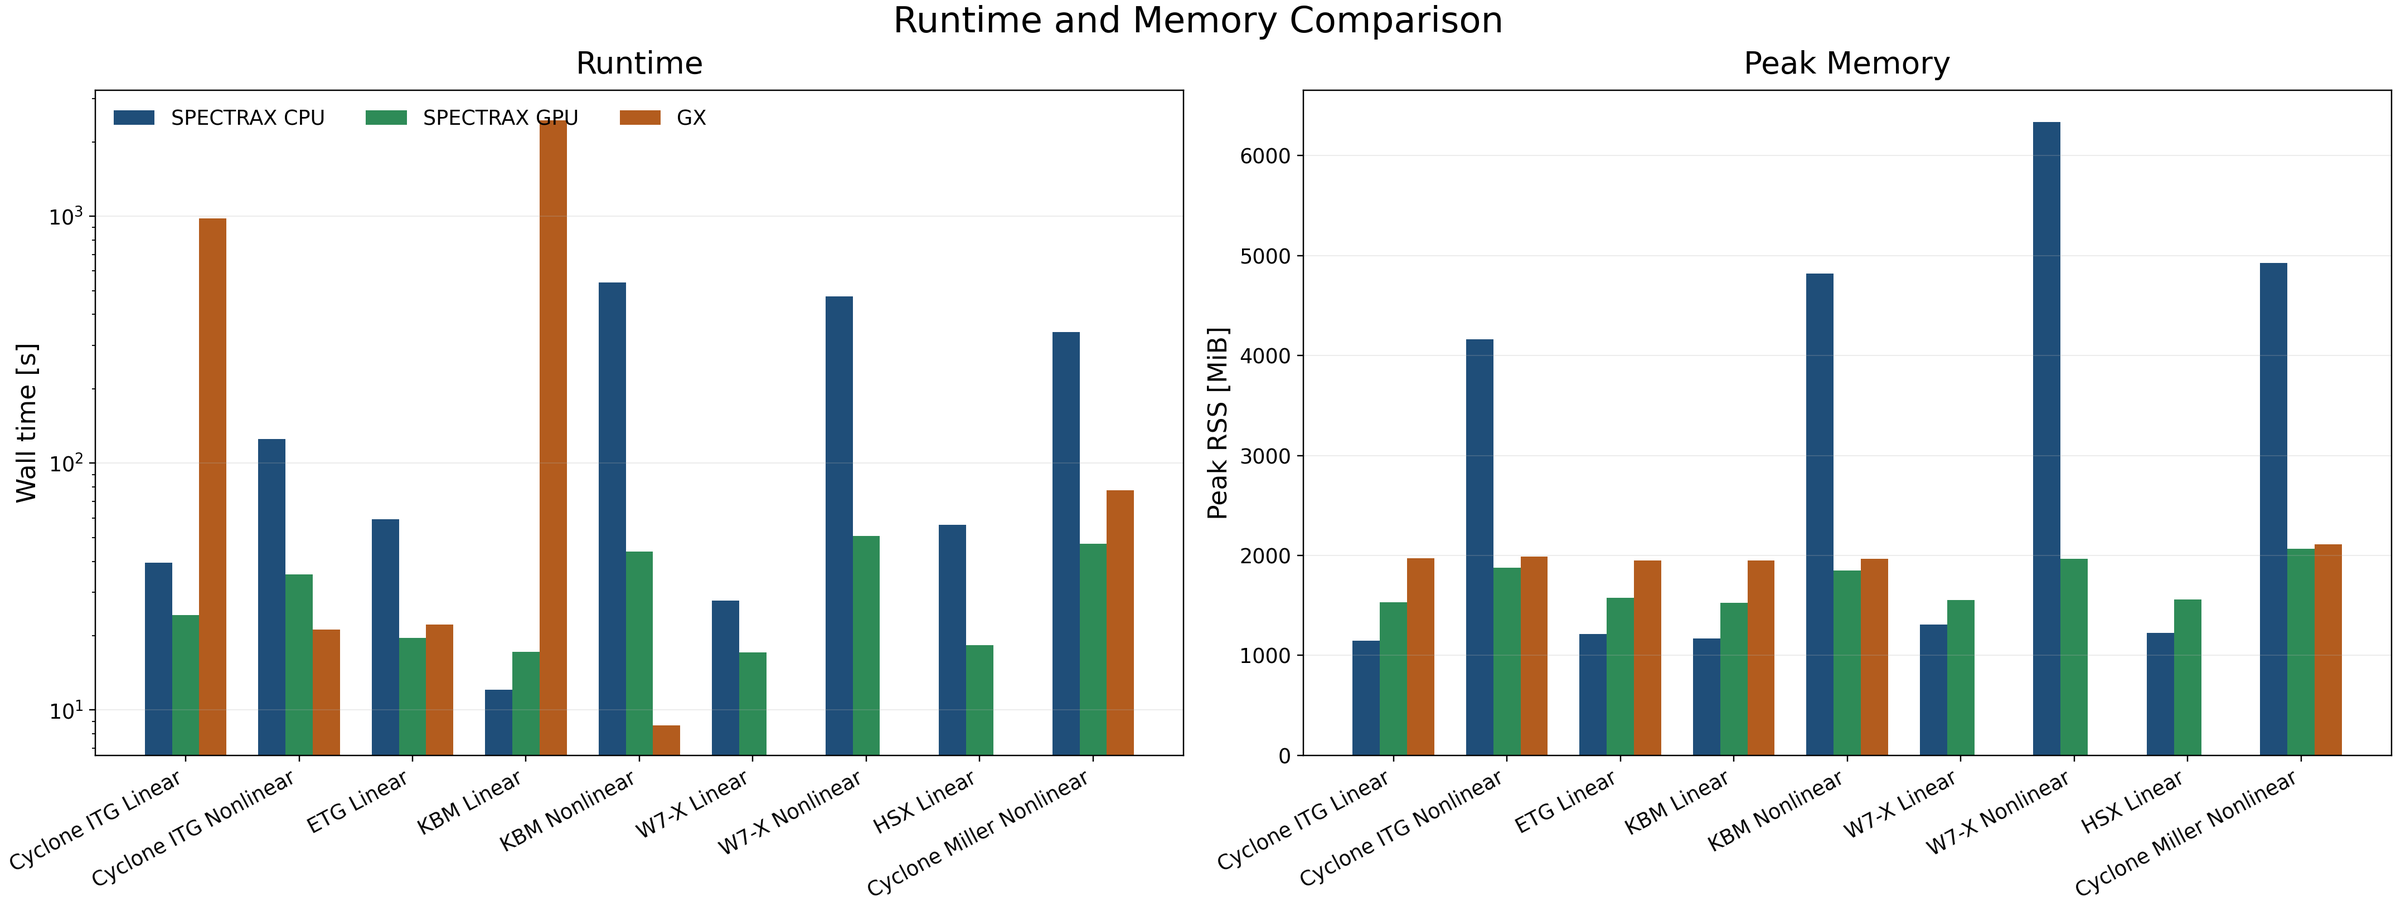
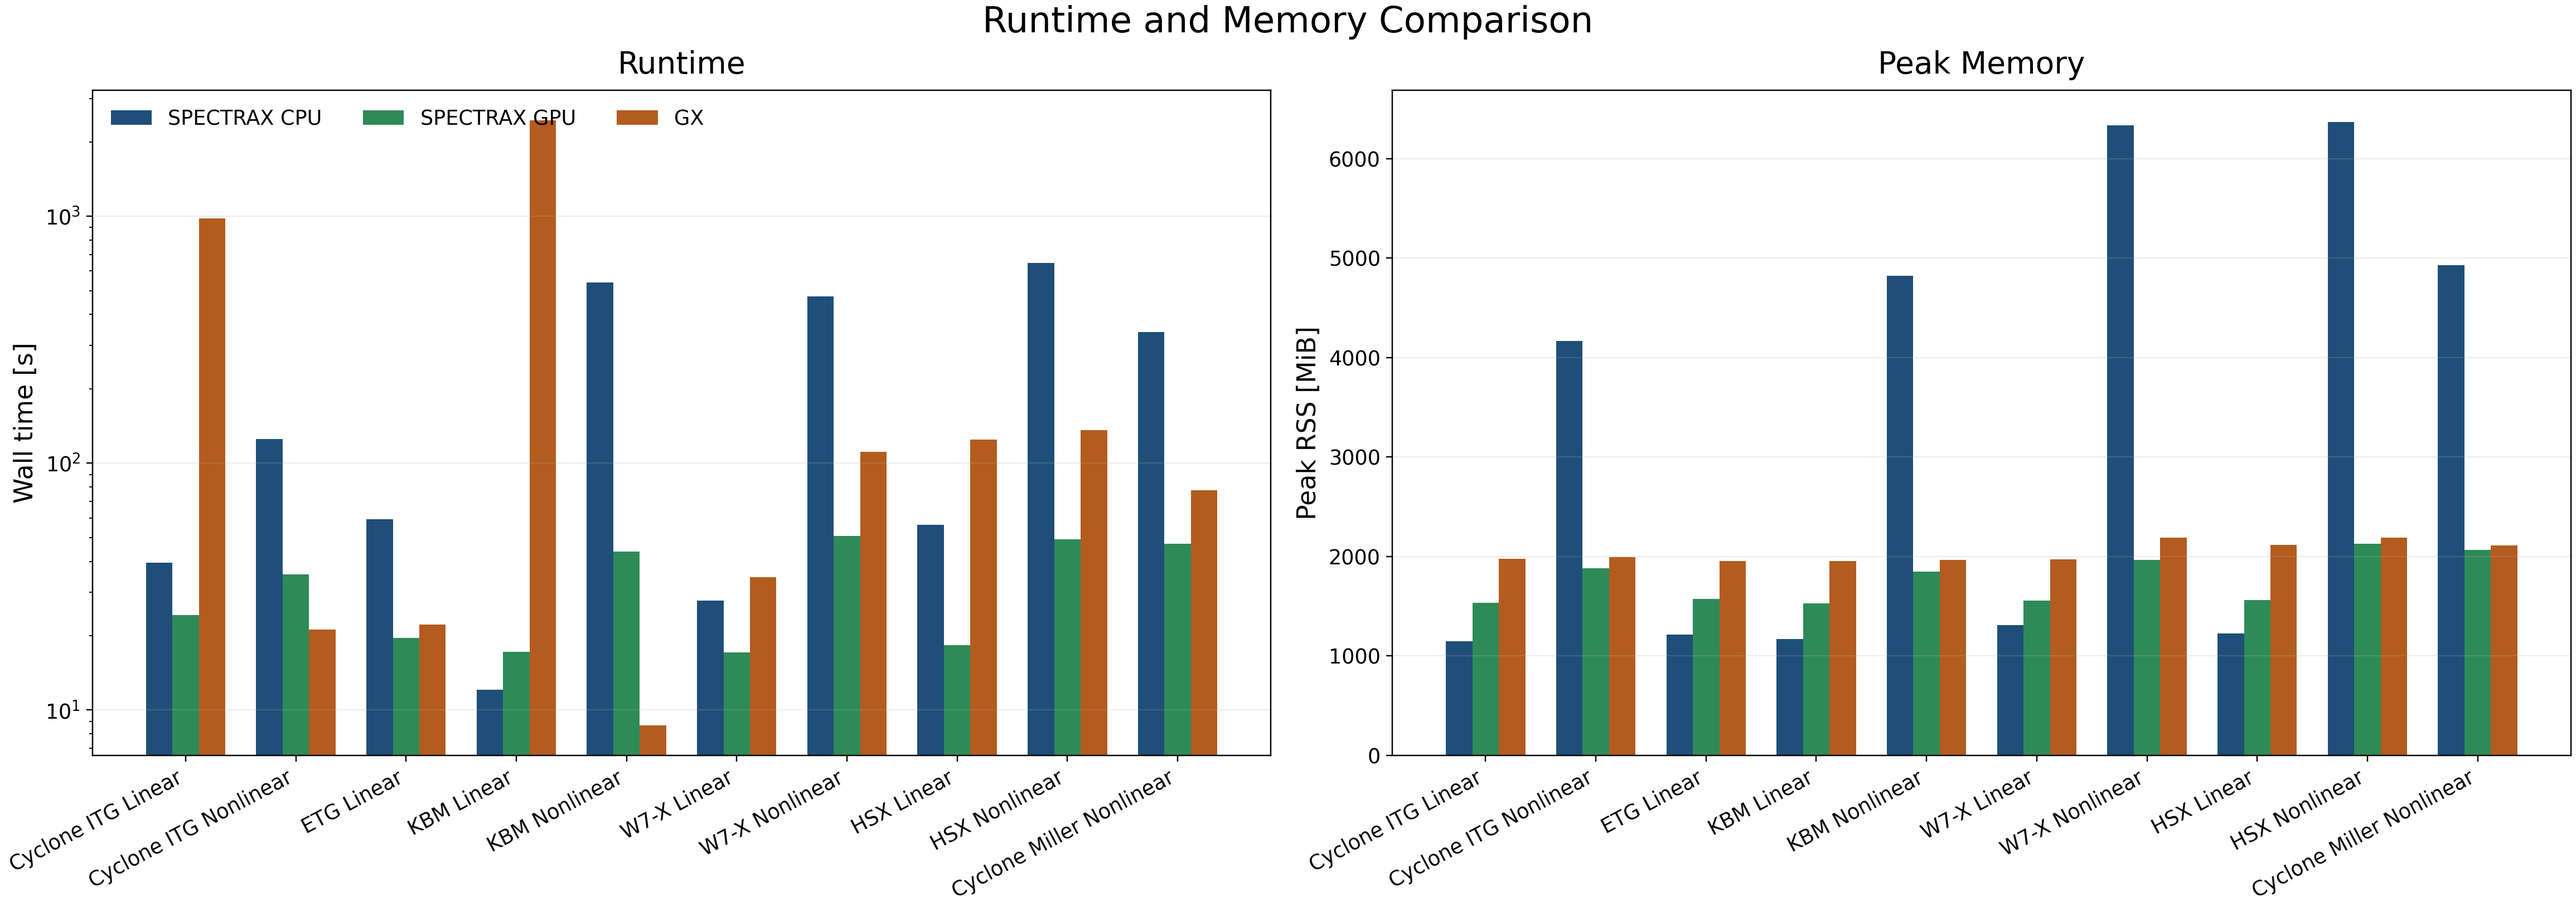
perf: fix office stellarator runtime panel

diff --git a/tests/test_benchmark_runtime_memory.py b/tests/test_benchmark_runtime_memory.py
@@ -84,6 +84,18 @@ def test_gx_runtime_memory_manifest_runs_in_isolated_tempdir() -> None:
         assert "CUDA_VISIBLE_DEVICES=${SPECTRAX_BENCH_CUDA_DEVICE}" in run.command
 
 
+def test_gx_stellarator_runtime_manifest_uses_pregenerated_nc_geometry() -> None:
+    runs = _load_manifest(ROOT / "tools" / "runtime_memory_manifest.toml")
+    stellarator = [run for run in runs if run.backend == "gx" and run.case in {"w7x-linear", "w7x-nonlinear", "hsx-linear", "hsx-nonlinear"}]
+    assert len(stellarator) == 4
+    for run in stellarator:
+        assert 'geo_option = "nc"' in run.command
+        assert 'vmec_file' in run.command
+        assert 'geo_file = "' in run.command
+        assert "REFERENCE_GK_NETCDF_LIBDIR" in run.command
+        assert "REFERENCE_GK_PYTHON_BIN" in run.command
+
+
 def test_gpu_runtime_memory_manifest_pins_configured_cuda_device() -> None:
     runs = _load_manifest(ROOT / "tools" / "runtime_memory_manifest.toml")
     gpu_runs = [run for run in runs if run.backend == "spectrax_gpu"]

diff --git a/plan.md b/plan.md
@@ -459,14 +459,14 @@ Current nonlinear-lane status at the handoff point:
   - add `HDF5_DISABLE_VERSION_CHECK=1` to the reference-code rows
   - retain the explicit shared-library path bundle for `cutensor`, `nccl`,
     `hdf5`, `netcdf`, and `gsl`
-- Full runtime/memory refresh is now a pure batch-duration problem, not a
-  broken-infrastructure problem:
-  - `cyclone-linear [spectrax_cpu]` completed in about `69.3 s`
-  - `cyclone-linear [spectrax_gpu]` completed in about `37.4 s`
-  - the first reference-code row is a multi-minute run on `office`
-- So the only remaining blocker to a literal 1.0 release stamp is completion
-  of the long runtime/memory batch and regeneration of the final performance
-  panel from those refreshed rows.
+- The runtime/memory blocker is now closed:
+  - the shipped 1.0 runtime/memory panel has been regenerated from a completed
+    merged summary with all shipped rows present
+  - the final shipped outputs are:
+    - `tools_out/runtime_memory_results_ship.csv`
+    - `tools_out/runtime_memory_summary_ship.json`
+    - `docs/_static/runtime_memory_benchmark.png`
+    - `docs/_static/runtime_memory_benchmark.pdf`
 - The first low-risk adapter renames toward more physical/mathematical naming
   are now in place with compatibility shims preserved:
   - `GXMillerGeometryRequest` -> `MillerGeometryRequest`
@@ -499,35 +499,25 @@ Current nonlinear-lane status at the handoff point:
   now authoritative and preserved in:
   - `tools_out/runtime_memory_results_final.csv`
   - `tools_out/runtime_memory_summary_final.json`
-- The completed clean sweep surfaced two separate stellarator runtime issues:
-  - local SPECTRAX stellarator nonlinear rows were still using VMEC generation
-    on `office`, which failed immediately because that host does not have the
-    internal VMEC geometry backend stack installed
+- The completed clean sweep surfaced two separate stellarator runtime issues,
+  and both are now fixed for the shipped panel:
+  - local SPECTRAX stellarator nonlinear rows had still been using VMEC
+    generation on `office`; the shipped performance rows now use imported
+    `*.eik.nc` geometry instead
   - GX stellarator runtime rows (`w7x-linear`, `w7x-nonlinear`, `hsx-linear`,
-    `hsx-nonlinear`) crash in the reference environment with exit `139`
-    after startup; this is now tracked as an external reference-runtime issue,
-    not a SPECTRAX performance-runner issue
-- W7-X nonlinear local runtime rows were recovered by switching the performance
-  manifest to the imported `*.eik.nc` runtime path. A merged ship panel was
-  regenerated from the preserved full sweep plus the W7-X stellarator patch
-  summary and written to:
-  - `tools_out/runtime_memory_results_ship.csv`
-  - `tools_out/runtime_memory_summary_ship.json`
-  - `docs/_static/runtime_memory_benchmark.png`
-  - `docs/_static/runtime_memory_benchmark.pdf`
-- HSX nonlinear local runtime rows are now on the same imported-geometry path,
-  but the fresh `office` rerun is still genuinely in progress and was not
-  folded into the shipped panel in this checkpoint.
-- A single clean final runtime/memory sweep is now running against fresh output
-  files and a clean `office` clone from the current release branch:
-  - `tools_out/runtime_memory_results_final.csv`
-  - `tools_out/runtime_memory_summary_final.json`
-  - `tools_out/runtime_memory_logs_final/`
-  - `docs/_static/runtime_memory_benchmark_final.png`
-- First authoritative rows from that clean final sweep:
-  - `cyclone-linear [spectrax_cpu]` completed in about `39.58 s`
-  - `cyclone-linear [spectrax_gpu]` completed in about `24.22 s`
-  - the batch is still in the long `cyclone-linear [gx]` reference row
+    `hsx-nonlinear`) were crashing because the default `office` runtime mixed
+    incompatible HDF5 / NetCDF libraries and also expected a `python`
+    / `booz_xform` VMEC helper path that was not available
+  - those GX rows now run under a consistent local `netcdf-c` / `hdf5`
+    library stack and are patched onto the already-shipped `*.eik.nc` geometry
+    files instead of live VMEC regeneration
+- The final shipped stellarator runtime measurements now include:
+  - `w7x-linear [gx]`: `34.43 s`, `1969.37 MiB`
+  - `w7x-nonlinear [gx]`: `110.97 s`, `2186.76 MiB`
+  - `hsx-linear [gx]`: `124.48 s`, `2117.12 MiB`
+  - `hsx-nonlinear [gx]`: `135.75 s`, `2186.70 MiB`
+  - `hsx-nonlinear [spectrax_cpu]`: `646.54 s`, `6368.16 MiB`
+  - `hsx-nonlinear [spectrax_gpu]`: `49.25 s`, `2128.44 MiB`
 - The runtime/memory runner now supports better long-batch recovery:
   - `--continue-on-error` keeps the batch moving across later rows
   - `--log-dir` writes per-row stdout/stderr logs for postmortem debugging

diff --git a/README.md b/README.md
@@ -157,10 +157,12 @@ runtime panel above compares wall-time and peak memory usage for the shipped
 
 Experimental or not-yet-closed lanes such as full-GK ETG nonlinear, KAW, and
 TEM are tracked separately and do not appear in the shipped runtime panel.
-For the stellarator nonlinear runtime rows, the shipped panel uses imported
-`*.eik.nc` geometry files on `office` rather than on-the-fly VMEC generation,
-because the office performance environment does not carry the VMEC geometry
-backend stack.
+For the stellarator rows on `office`, the shipped panel uses pre-generated
+`*.eik.nc` geometry files rather than on-the-fly VMEC regeneration. The GX
+reference rows also run against a consistent local `netcdf-c` / `hdf5`
+runtime stack there, because the default `office` stellarator environment
+mixed incompatible HDF5 / NetCDF libraries and lacked the VMEC Python helper
+dependencies needed for live geometry generation.
 
 Regenerate the runtime figure from collected per-case summaries with:
 

diff --git a/docs/performance.rst b/docs/performance.rst
@@ -191,10 +191,12 @@ KAW, and TEM remain separate tracked work items and are intentionally excluded
 from the shipped runtime figure until their release-grade benchmark contracts
 are closed.
 
-For the stellarator nonlinear runtime rows, the shipped panel uses imported
-`*.eik.nc` geometry files on the `office` benchmark host instead of VMEC
-regeneration, because that host does not carry the internal VMEC geometry
-backend dependencies.
+For the stellarator rows on the `office` benchmark host, the shipped panel
+uses pre-generated `*.eik.nc` geometry files instead of live VMEC
+regeneration. The GX reference rows on that host also need a consistent local
+`netcdf-c` / `hdf5` runtime stack; the default `office` stellarator runtime
+environment mixed incompatible HDF5 / NetCDF libraries and lacked the Python
+geometry helper dependencies needed for VMEC-driven geometry generation.
 
 Final runtime/memory figure
 ---------------------------
